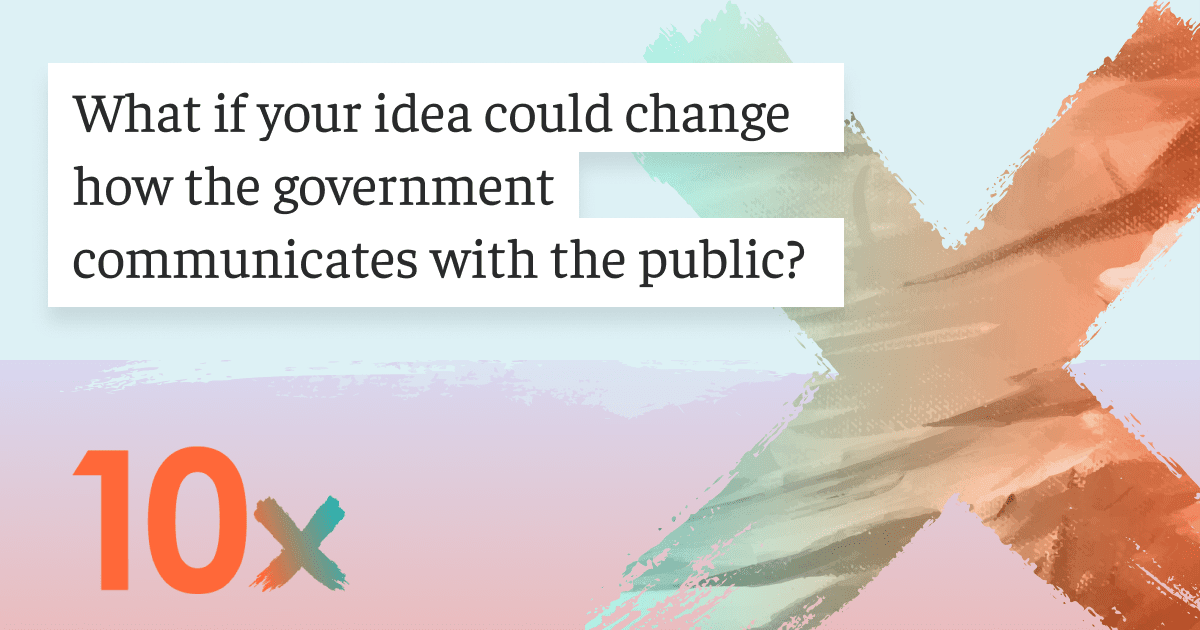
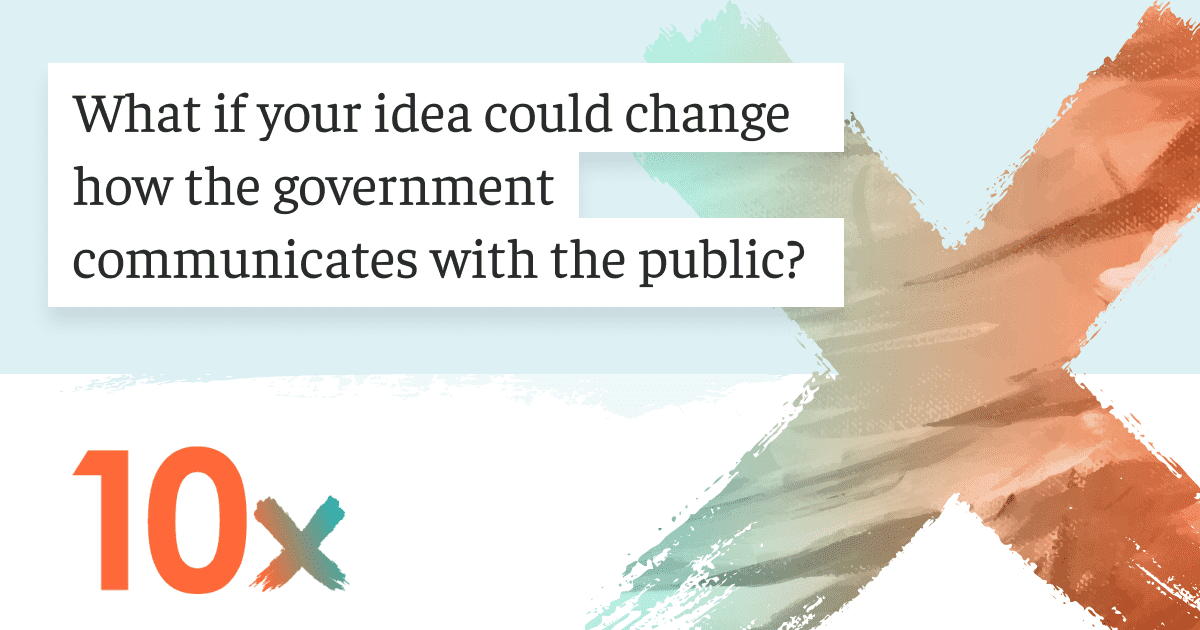
update images, use only one set of share images

diff --git a/public/index.html b/public/index.html
@@ -33,8 +33,6 @@
       content="%PUBLIC_URL%/browserconfig.xml"
     />
     <meta name="theme-color" content="#ffffff" />
-    <meta content="https://demo.10x.gsa.gov/images/fb-share-img.png" property="og:image" />
-    <meta content="https://demo.10x.gsa.gov/images/twitter-share-img.png"  name="twitter:image" />
 
     <meta name="google-site-verification" content="mNhXg2ozV8Qe5Vc_AQ-P533jA7Ysf3dQa39oO1Wvd5k" />
 
